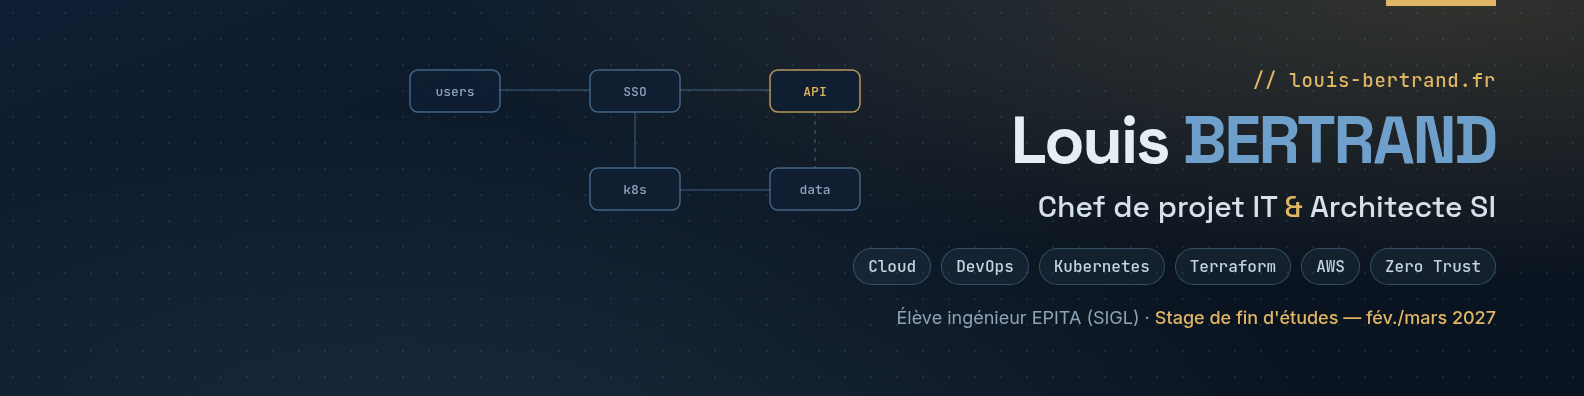
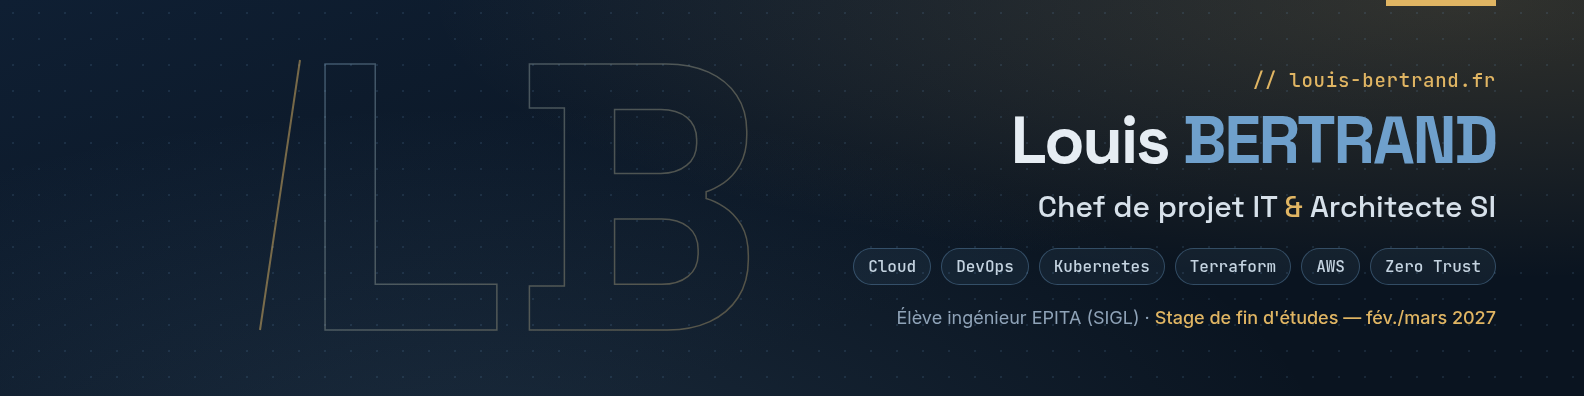
feat: bannière LinkedIn avec monogramme LB à la place du schéma

diff --git a/branding/linkedin-banner.html b/branding/linkedin-banner.html
@@ -13,7 +13,7 @@ body{width:1584px;height:396px;overflow:hidden;position:relative;color:#e6edf3;f
   radial-gradient(ellipse at 30% 120%, rgba(111,160,204,.16), transparent 55%),
   linear-gradient(160deg,#0f1f33,#0a1420 65%)}
 /* Architecture sketch, kept above the profile photo area (bottom-left) */
-svg{position:absolute;left:390px;top:40px}
+svg.art{position:absolute;left:0;top:0}
 .content{position:absolute;right:88px;top:0;bottom:0;display:flex;flex-direction:column;justify-content:center;align-items:flex-end;text-align:right}
 .tag{font-family:'JetBrains Mono',monospace;font-size:19px;color:#e0b563;letter-spacing:.04em}
 h1{font-family:'Space Grotesk',sans-serif;font-size:66px;font-weight:700;letter-spacing:-.035em;line-height:1;margin-top:14px}
@@ -28,23 +28,10 @@ h1 span{color:#6fa0cc}
 .bar{position:absolute;right:88px;top:0;width:110px;height:6px;background:#e0b563}
 </style></head><body>
 <div class="bar"></div>
-<svg width="520" height="200" viewBox="0 0 520 200" fill="none" font-family="JetBrains Mono, monospace" font-size="13">
-  <g stroke="rgba(111,160,204,.35)" stroke-width="1.5">
-    <path d="M110 50 H200"/><path d="M290 50 H380"/>
-    <path d="M245 72 V128"/><path d="M290 150 H380"/>
-    <path d="M425 72 V128" stroke-dasharray="4 5"/>
-  </g>
-  <g stroke="rgba(111,160,204,.55)" stroke-width="1.5" fill="rgba(15,31,51,.85)">
-    <rect x="20" y="30" width="90" height="42" rx="8"/>
-    <rect x="200" y="30" width="90" height="42" rx="8"/>
-    <rect x="380" y="30" width="90" height="42" rx="8" stroke="rgba(224,181,99,.8)"/>
-    <rect x="200" y="128" width="90" height="42" rx="8"/>
-    <rect x="380" y="128" width="90" height="42" rx="8"/>
-  </g>
-  <g fill="#8fa3b8" text-anchor="middle">
-    <text x="65" y="56">users</text><text x="245" y="56">SSO</text>
-    <text x="425" y="56" fill="#e0b563">API</text><text x="245" y="154">k8s</text><text x="425" y="154">data</text>
-  </g>
+<svg class="art" width="760" height="396" viewBox="0 0 760 396" fill="none">
+  <defs><linearGradient id="m" x1="0" y1="0" x2="1" y2="1"><stop offset="0" stop-color="#6fa0cc" stop-opacity=".45"/><stop offset="1" stop-color="#e0b563" stop-opacity=".35"/></linearGradient></defs>
+  <text x="300" y="330" font-family="Space Grotesk, sans-serif" font-weight="700" font-size="380" letter-spacing="6" stroke="url(#m)" stroke-width="1.5">LB</text>
+  <path d="M300 60 L260 330" stroke="#e0b563" stroke-opacity=".5" stroke-width="2"/>
 </svg>
 <div class="content">
   <p class="tag">// louis-bertrand.fr</p>
